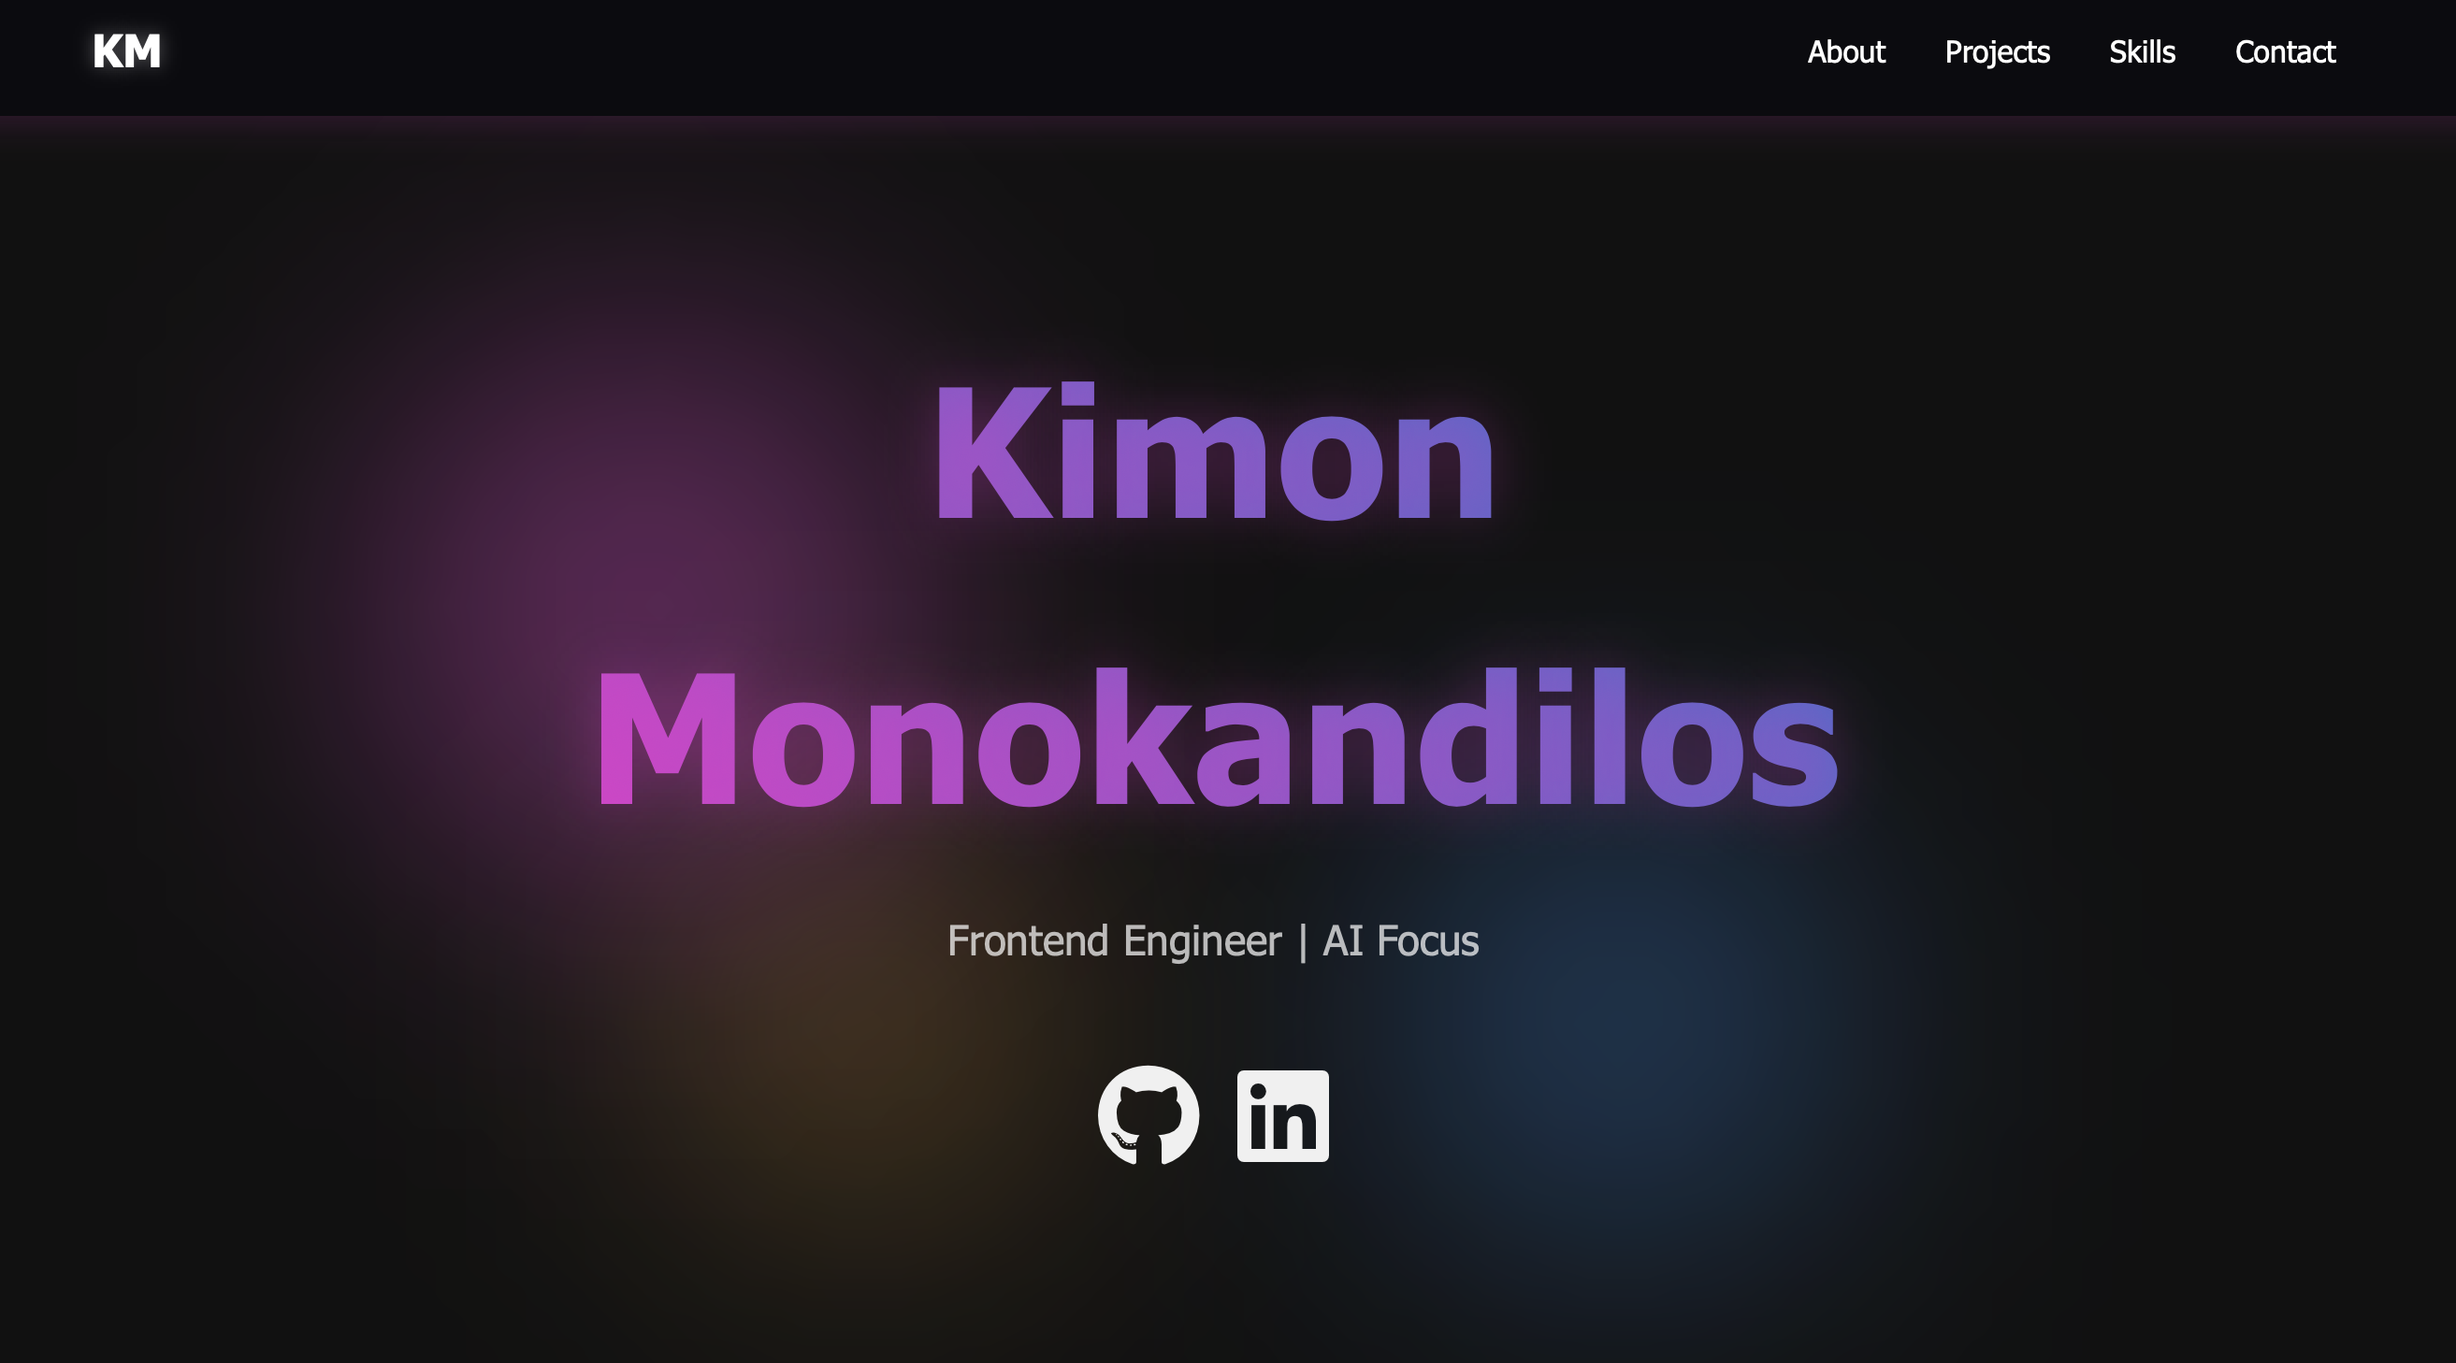
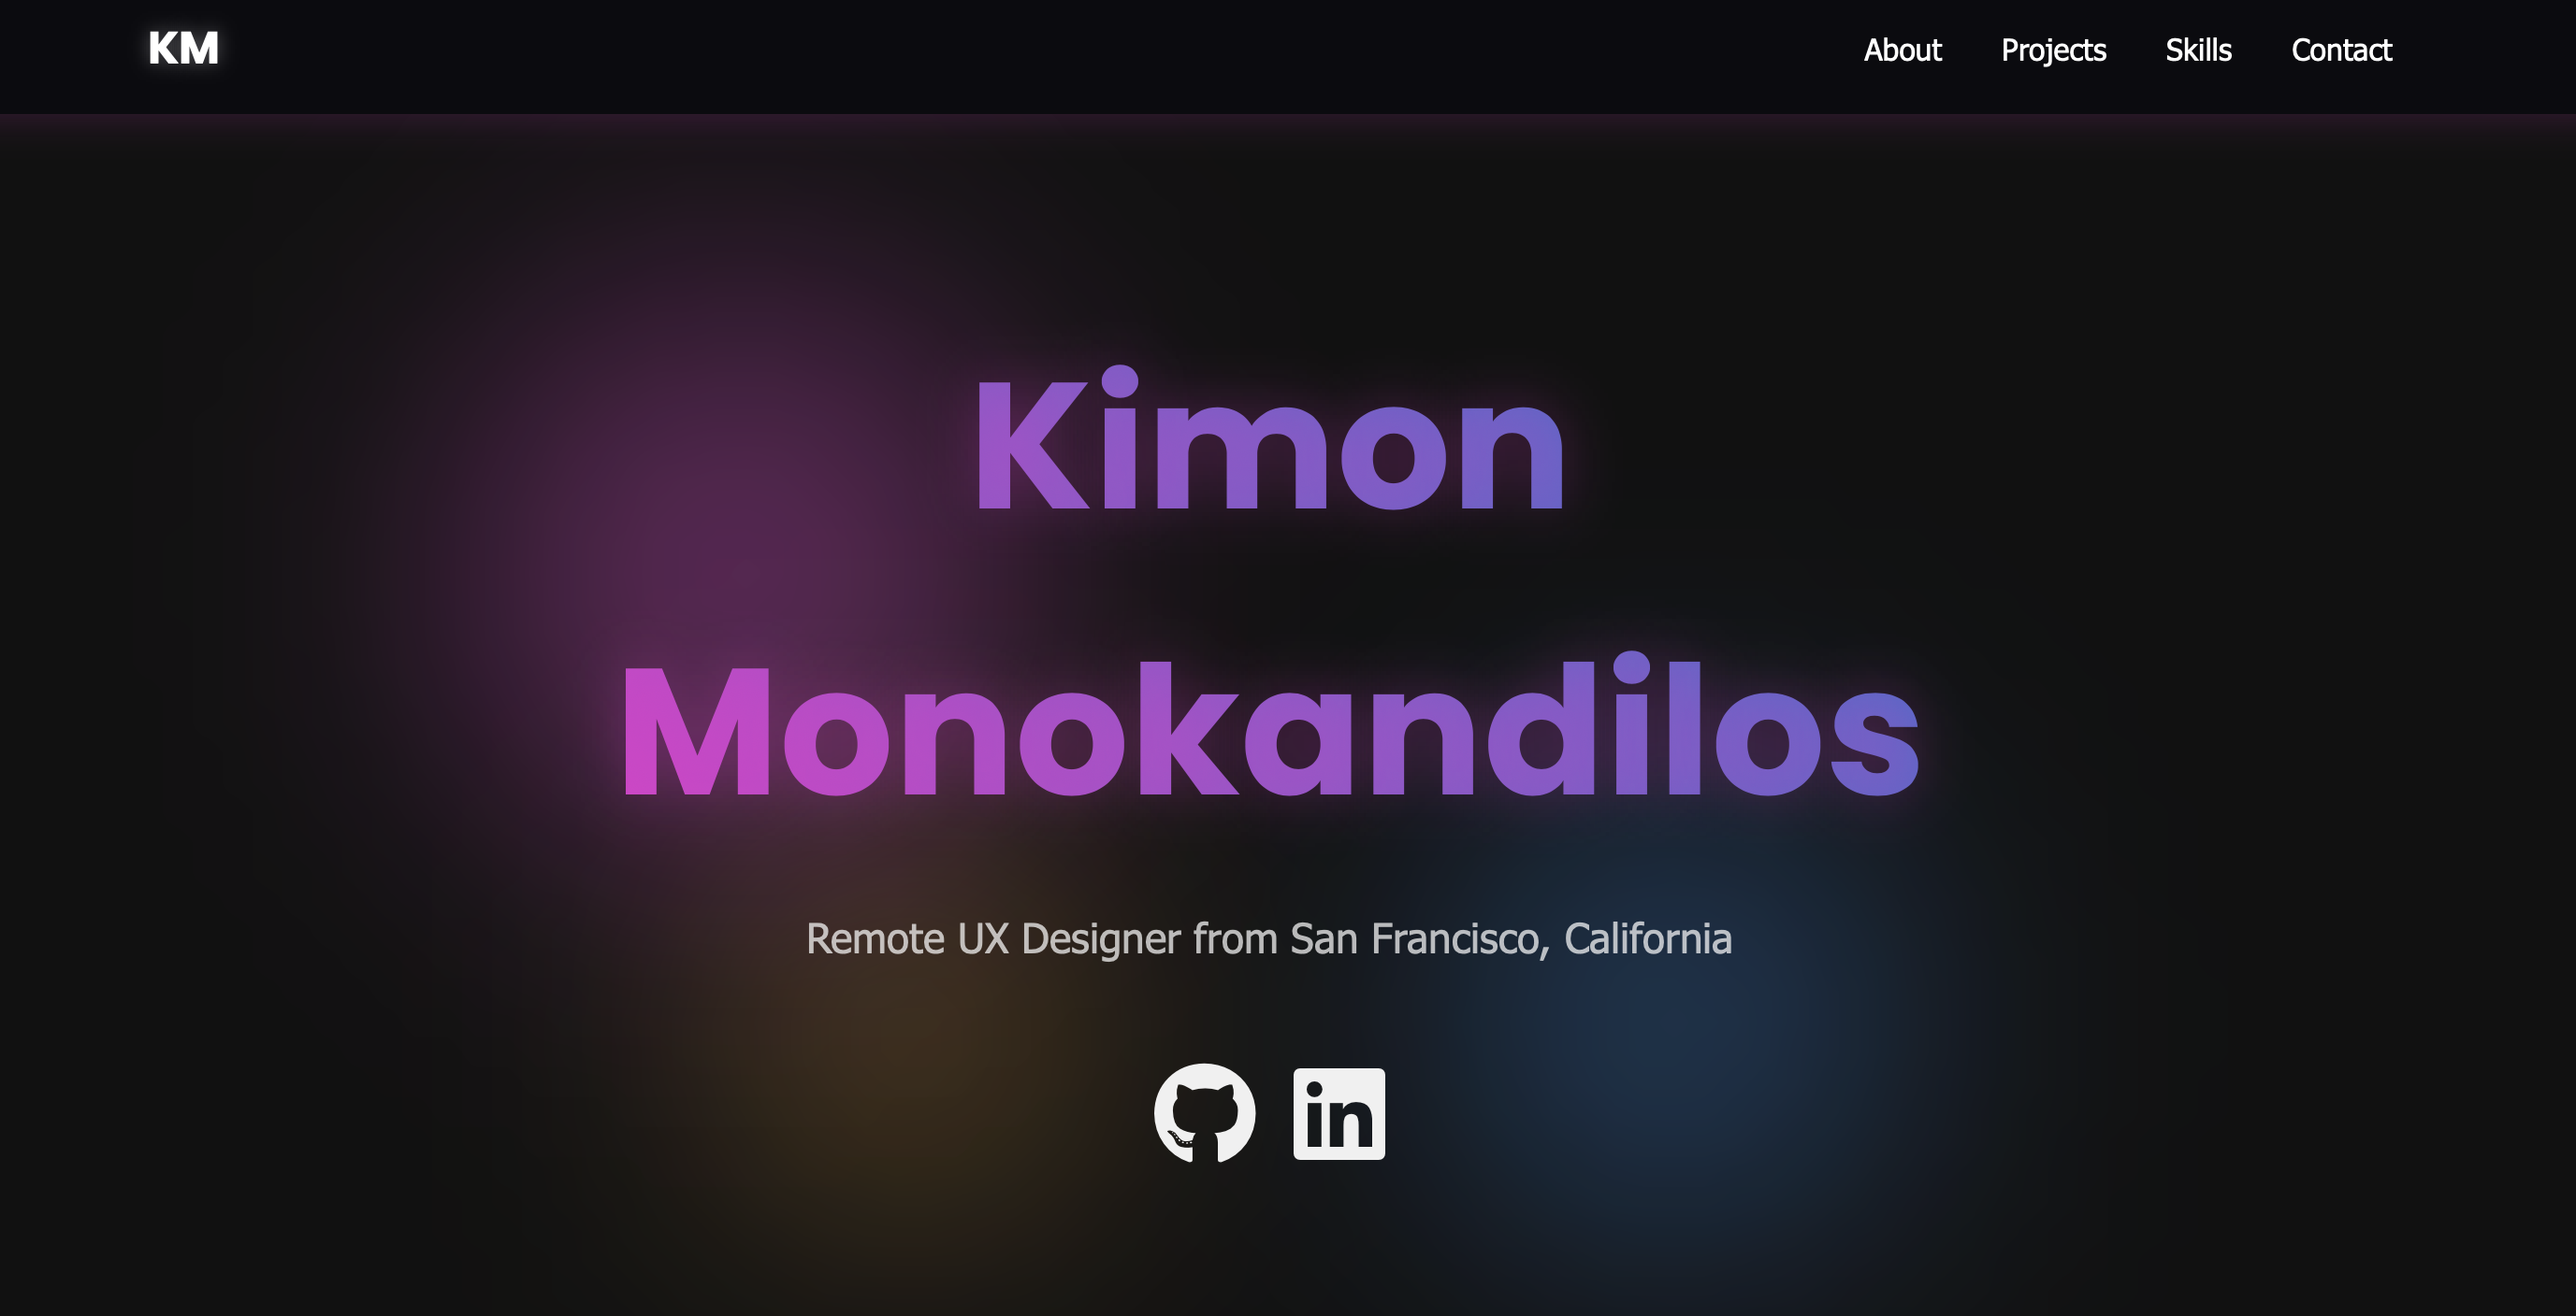
idkkk

diff --git a/index.html b/index.html
@@ -36,7 +36,7 @@
       <div class="orb orb-3"></div>
       <div class="header-content">
         <h1>Kimon<br/> Monokandilos</h1>
-        <p>Full Stack Developer from San Francisco, California</p>
+        <p>Remote UX Designer from San Francisco, California</p>
         <div class="social-icons">
           <a href="https://github.com/kimonmono986" target="_blank"
             ><i class="fab fa-github"></i
@@ -51,11 +51,11 @@
     <section id="about">
       <h2 class="section-title">About Me</h2>
       <p style="text-align: center;">
-        Nice to meet you, I'm Kimon! I'm passionate about designing innovative 
-        software solutions by using my creativity and full-stack software 
-        development skills. I keep my technical skills sharp by building new 
-        projects and learning modern technologies. I look forward to embarking 
-        on this adventure with you!
+        Nice to meet you, I'm Kimon! I'm passionate about designing 
+        innovative digital experiences by using my creativity and UX/UI 
+        design skills. I keep my skills sharp by building user-centered 
+        projects and exploring modern design tools and trends. I look 
+        forward to embarking on this adventure with you!
       </p>
     </section>
 
@@ -67,7 +67,7 @@
           <div class="project-content">
             <h3 class="project-title">FindMySong</h3>
             <p class="project-description">
-              A song finder app built with CSS3, LangChain, and Python
+              A seamless song discovery app with an asthetically pleasing UI
             </p>
           </div>
         </div>
@@ -76,7 +76,7 @@
           <div class="project-content">
             <h3 class="project-title">SignMe</h3>
             <p class="project-description">
-              A digital sign-in solution built with React.js, CSS3, and MySQL
+              An efficient digital sign-in experience with intuitive user flows
             </p>
           </div>
         </div>
@@ -85,7 +85,7 @@
           <div class="project-content">
             <h3 class="project-title">KindnessApp</h3>
             <p class="project-description">
-              A mental health awareness app built with React.js, CSS3, and Ruby
+              A supportive mental health awareness app with user-friendly interactions
             </p>
           </div>
         </div>
@@ -95,14 +95,14 @@
     <section id="skills">
       <h2 class="section-title">Skills</h2>
       <div class="skills-container">
-        <span class="skill-badge">React.js</span>
-        <span class="skill-badge">CSS3</span>
-        <span class="skill-badge">LangChain</span>
-        <span class="skill-badge">Python</span>
-        <span class="skill-badge">Node.js</span>
-        <span class="skill-badge">Ruby</span>
-        <span class="skill-badge">GitHub</span>
         <span class="skill-badge">Figma</span>
+        <span class="skill-badge">UX/UI Design</span>
+        <span class="skill-badge">Adobe XD</span>
+        <span class="skill-badge">Sketch</span>
+        <span class="skill-badge">InVision</span>
+        <span class="skill-badge">HTML 5</span>
+        <span class="skill-badge">CSS3</span>
+        <span class="skill-badge">User Testing Tools</span>
       </div>
     </section>
 
@@ -119,7 +119,7 @@
         </div>
         <div class="form-group">
           <label for="message">Message</label>
-          <textarea id="message" rows="5" placeholder="Information about your project" required></textarea>
+          <textarea id="message" rows="5" placeholder="Your project goals, design needs, etc." required></textarea>
         </div>
         <button type="submit">Send Message</button>
       </form>
@@ -127,7 +127,7 @@
 
     <footer>
       <p>&copy; 2025 Kimon Monokandilos</p>
-      <div class="back-to-top" id="backToTop">&#8679;</div>
+      <div class="back-to-top" id="backToTop">^</div>    
     </footer>
     <script src="https://cdnjs.cloudflare.com/ajax/libs/gsap/3.12.2/ScrollToPlugin.min.js"></script>
     <script src="./script.js"></script>

diff --git a/style.css b/style.css
@@ -1,3 +1,9 @@
+@import url('https://fonts.googleapis.com/css2?family=Poppins:wght@400;600;700&display=swap');
+
+h1, h2, h3, .logo {
+  font-family: 'Poppins', sans-serif;
+}
+
 .social-icons {
     display: flex;
     justify-content: center;
@@ -17,13 +23,22 @@
   }
 
   .back-to-top {
+    transform: rotate(-90deg);
+    font-weight: bold;
+  }
+
+  .back-to-top.show {
+    transform: rotate(-90deg) translateX(0);
+  }
+
+  .back-to-top {
     position: fixed;
     bottom: 40px;
     right: 40px;
     background: var(--primary-pink);
     color: white;
-    width: 70px;
-    height: 70px;
+    width: 45px;
+    height: 45px;
     display: flex;
     align-items: center;
     justify-content: center;
@@ -31,14 +46,25 @@
     border-radius: 50%;
     cursor: pointer;
     box-shadow: 0 0 10px rgba(228, 43, 203, 0.5);
-    transition: opacity 0.3s, transform 0.3s;
+    transition: all 0.3s;
     opacity: 0;
     transform: translateY(20px);
-  }
-  .back-to-top.show {
-    opacity: 1;
-    transform: translateY(0);
-  }
+    z-index: 1000;
+}
+
+.back-to-top > * {
+  transform: rotate(-90deg); /* Rotate just the arrow character */
+}
+
+.back-to-top.show {
+  opacity: 1;
+  transform: translateY(0);
+}
+
+.back-to-top:hover {
+  background: #f13bd8;
+  transform: translateY(-2px);
+}
 
   :root {
     --primary-pink: #e42bcb;
@@ -198,6 +224,12 @@
     animation: float 6s ease-in-out infinite;
   }
 
+  /* @keyframes gradient {
+    0% { background-position: 0% 50%; }
+    50% { background-position: 100% 50%; }
+    100% { background-position: 0% 50%; }
+} */
+
   @keyframes float {
     0%,
     100% {
@@ -222,7 +254,21 @@
     font-size: 2rem;
     color: #fff;
     text-shadow: 0 0 10px rgba(255, 255, 255, 0.1);
+    position: relative;
+    display: inline-block;
+    padding-bottom: 10px;
   }
+  .section-title::after {
+    content: '';
+    position: absolute;
+    bottom: 0;
+    left: 50%;
+    transform: translateX(-50%);
+    width: 60px;
+    height: 3px;
+    background: linear-gradient(90deg, var(--primary-pink), var(--primary-blue));
+    border-radius: 3px;
+}
 
   .projects-grid {
     display: grid;
@@ -236,8 +282,8 @@
     padding: 10px;
     border-radius: 10px;
     overflow: hidden;
-    box-shadow: 0 4px 20px rgba(228, 43, 203, 0.2);
-    transition: transform 0.3s;
+    box-shadow: 0 4px 20px rgba(228, 43, 203, 0.3);
+    transition: box-shadow 0.3s ease;
     cursor: pointer;
     display: flex;
     flex-direction: column;
@@ -252,7 +298,8 @@
 
   .project-card:hover {
     transform: translateY(-5px);
-  }
+    box-shadow: 0 6px 30px rgba(228, 43, 203, 0.8);
+}
 
   .project-card img {
     width: 100%;
@@ -275,7 +322,14 @@
     font-size: 0.9rem;
     border: 1px solid rgba(228, 43, 203, 0.5);
     backdrop-filter: blur(5px);
+    transition: all 0.3s ease;
   }
+
+  .skill-badge:hover {
+    transform: translateY(-2px);
+    box-shadow: 0 4px 12px rgba(228, 43, 203, 0.3);
+    background: rgba(228, 43, 203, 0.2);
+}
 
   .contact-form {
     max-width: 600px;
@@ -306,6 +360,8 @@
     font-size: 1rem;
     color: #fff;
     transition: border-color 0.3s;
+    border-color: var(--primary-pink);
+    box-shadow: 0 0 8px rgba(228, 43, 203, 0.2);
   }
 
   .form-group input:focus,
@@ -315,18 +371,13 @@
   }
 
   button {
-    background: linear-gradient(
-      45deg,
-      var(--primary-pink),
-      var(--primary-blue)
-    );
-    color: white;
-    border: none;
-    padding: 1rem 2rem;
-    border-radius: 5px;
-    cursor: pointer;
-    font-size: 1rem;
-    transition: transform 0.3s;
+    background: linear-gradient(45deg, var(--primary-pink), var(--primary-blue));
+    background-size: 200% 200%;
+    animation: gradient 5s ease infinite;
+    font-weight: 600;
+    letter-spacing: 0.5px;
+    padding: 15px;
+    transition: 0.3s ease;
   }
 
   button:hover {

diff --git a/script.js b/script.js
@@ -70,16 +70,30 @@ const mobileMenuBtn = document.querySelector(".mobile-menu-btn");
           this.reset();
         });
 
-      const backToTop = document.getElementById("backToTop");
+        const backToTop = document.getElementById("backToTop");
 
-      window.addEventListener("scroll", () => {
-        if (window.scrollY > 300) {
-          backToTop.classList.add("show");
-        } else {
-          backToTop.classList.remove("show");
-        }
-      });
-
-      backToTop.addEventListener("click", () => {
-        gsap.to(window, { duration: 1, scrollTo: { y: 0, autoKill: true } });
-      });
+        // Updated visibility logic
+        const updateBackToTop = () => {
+            if (window.pageYOffset > 300) {
+                backToTop.classList.add("show");
+            } else {
+                backToTop.classList.remove("show");
+            }
+        };
+        
+        // Use both scroll and touch events
+        ["scroll", "touchmove"].forEach(evt => 
+            window.addEventListener(evt, updateBackToTop, { passive: true })
+        );
+        
+        // Handle both click and touch
+        ["click", "touchend"].forEach(evt => 
+            backToTop.addEventListener(evt, (e) => {
+                e.preventDefault();
+                gsap.to(window, {
+                    duration: 1,
+                    scrollTo: { y: 0, autoKill: true },
+                    ease: "power2.inOut"
+                });
+            })
+        );
